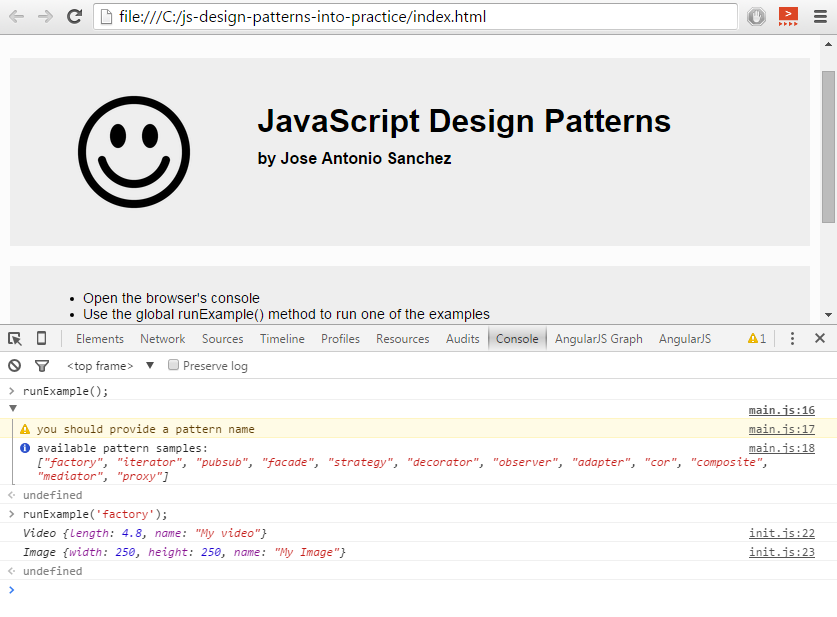
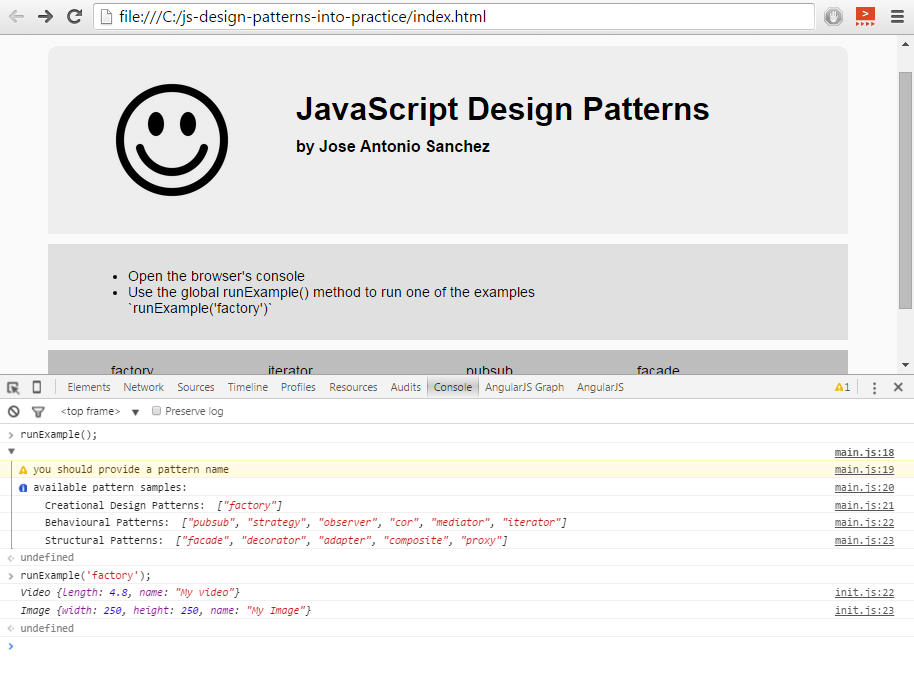
layout changes

diff --git a/index.html b/index.html
@@ -5,16 +5,17 @@
     <title>JavaScript Design Patterns</title>
     <style type="text/css">
         html, body {
-            background: #fcfcfc;
+            background: #fafafa;
             margin: 0;
             font-family: 'Helvetica Neue', Helvetica, sans-serif;
         }
         header {
             font-weight: bold;
             overflow: hidden;
-            background: #eee;
-            margin: 60px auto 20px auto;
+            background: #eeeeee;
+            margin: 40px auto 10px auto;
             width: 800px;
+            border-radius: 10px 10px 0 0;
         }
         header img {
             padding: 30px 60px;
@@ -31,12 +32,19 @@
             margin-top: 10px;
             font-size: 16px;
         }
+        ul {
+            padding-left: 20px;
+        }
         .body-content {
-            background: #eee;
-            margin: 0 auto 20px auto;
+            background: #e0e0e0;
+            margin: 0 auto 10px auto;
             padding: 10px 60px;
             width: 680px;
             font-size: 14px;
+        }
+        .body-content.last {
+            background: #bdbdbd;
+            border-radius: 0 0 10px 10px;
         }
     </style>
 </head>
@@ -49,14 +57,14 @@
         </hgroup>
     </header>
     <div class="body-content">
-        <p>
+        <ul>
             <li>Open the browser's console</li>
             <li>Use the global runExample() method to run one of the examples <br>
             `runExample('factory')`
             </li>
-        </p>
+        </ul>
     </div>
-    <div class="body-content">
+    <div class="body-content last">
         <table width="680">
             <tr>
                 <td>factory</td>

diff --git a/js/main.js b/js/main.js
@@ -17,7 +17,10 @@ require(
             if(!name){
                 console.group();
                 console.warn('you should provide a pattern name');
-                console.info('available pattern samples: ', ['factory', 'iterator', 'pubsub', 'facade', 'strategy', 'decorator', 'observer', 'adapter', 'cor', 'composite', 'mediator', 'proxy'])
+                console.info('available pattern samples:');
+                console.log('  Creational Design Patterns: ', ['factory']);
+                console.log('  Behavioural Patterns: ', ['pubsub','strategy', 'observer', 'cor', 'mediator', 'iterator']);
+                console.log('  Structural Patterns: ', ['facade', 'decorator', 'adapter', 'composite', 'proxy']);
                 console.groupEnd();
                 return;
             }
